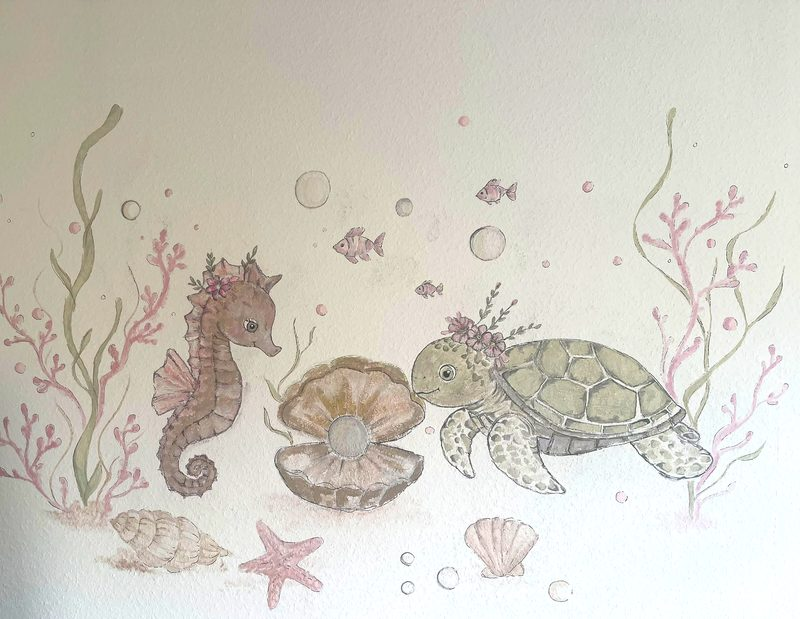
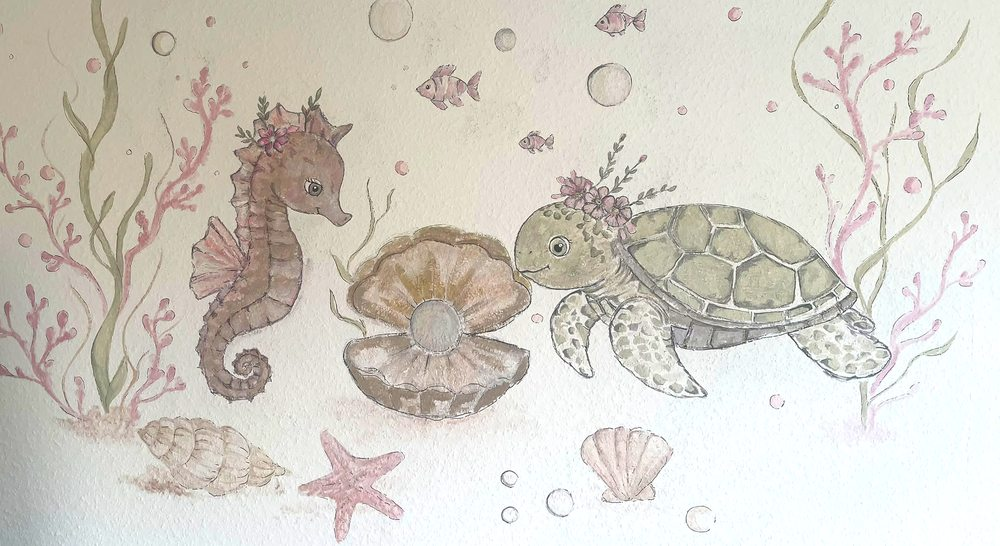
Wandbild wird nicht mehr beschnitten

diff --git a/css/style.css b/css/style.css
@@ -57,60 +57,27 @@ main, footer { max-width: 760px; margin-inline: auto; padding-inline: 20px; }
 ::selection { background: var(--rose-soft); color: var(--ink); }
 
 /* ==========================================================================
-   Hero – das Wandbild als Bühne
+   Hero – Titel auf ruhigem Grund, darunter das Wandbild in voller Breite.
+   Das Bild wird NICHT auf eine feste Höhe beschnitten: Seepferdchen und
+   Schildkröte bleiben in jeder Fensterbreite vollständig sichtbar.
    ========================================================================== */
 
 .hero {
   position: relative;
   isolation: isolate;
-  min-height: clamp(470px, 74vh, 700px);
-  display: flex;
-  flex-direction: column;
-  justify-content: flex-start;
-  align-items: center;
-  padding: clamp(44px, 9vw, 84px) 20px clamp(90px, 16vw, 150px);
+  padding-top: clamp(48px, 8vw, 88px);
   text-align: center;
   overflow: hidden;
 }
 
-.hero-media {
-  position: absolute;
-  inset: -8% 0 0;
-  z-index: -2;
-}
-
-.hero-media img {
-  width: 100%;
-  height: 100%;
-  object-fit: cover;
-  object-position: 50% 96%;
+.hero-text {
+  position: relative;
+  z-index: 1;
+  max-width: 40ch;
+  margin: 0 auto;
+  padding: 0 20px clamp(14px, 3vw, 26px);
   will-change: transform;
 }
-
-/* Weicher Verlauf: oben aufhellen für die Schrift, unten in die Seite überblenden */
-.hero::before {
-  content: "";
-  position: absolute;
-  inset: 0;
-  z-index: -1;
-  background:
-    linear-gradient(to right,
-      var(--bg) 0%,
-      rgba(250,245,239,.45) 5%,
-      rgba(250,245,239,0) 13%,
-      rgba(250,245,239,0) 87%,
-      rgba(250,245,239,.45) 95%,
-      var(--bg) 100%),
-    linear-gradient(to bottom,
-      rgba(250,245,239,.97) 0%,
-      rgba(250,245,239,.94) 34%,
-      rgba(250,245,239,.62) 50%,
-      rgba(250,245,239,.10) 64%,
-      rgba(250,245,239,.55) 88%,
-      var(--bg) 100%);
-}
-
-.hero-content { position: relative; max-width: 40ch; }
 
 .eyebrow {
   margin: 0;
@@ -125,7 +92,7 @@ main, footer { max-width: 760px; margin-inline: auto; padding-inline: 20px; }
   margin: .12em 0 .2em;
   font-family: "Cormorant Garamond", Iowan Old Style, Palatino, Georgia, serif;
   font-weight: 600;
-  font-size: clamp(3.2rem, 13vw, 5.4rem);
+  font-size: clamp(3.2rem, 12vw, 5.4rem);
   line-height: .95;
   letter-spacing: -.015em;
   color: var(--ink);
@@ -138,8 +105,53 @@ main, footer { max-width: 760px; margin-inline: auto; padding-inline: 20px; }
   font-size: clamp(.94rem, 2.4vw, 1.02rem);
 }
 
+/* --- Das Bild ------------------------------------------------------------
+   Grundfall: volle Breite, Höhe ergibt sich aus dem Bild -> kein Beschnitt.
+   Erst bei sehr breiten Fenstern greift die Höhenbremse; dann wird um die
+   Bildmitte herum beschnitten, also genau um die Tiere.                    */
+
+.hero-media {
+  position: relative;
+  width: 100%;
+  max-width: 1180px;      /* begrenzt die Breite statt das Bild zu beschneiden */
+  margin-inline: auto;
+  line-height: 0;
+}
+
+.hero-media img {
+  display: block;
+  width: 100%;
+  height: auto;
+  max-height: min(78vh, 680px);   /* Notbremse für sehr flache Fenster */
+  object-fit: cover;
+  object-position: 50% 50%;
+}
+
+/* Weiche Kanten, damit das Foto in den Seitenhintergrund übergeht */
+.hero-media::after {
+  content: "";
+  position: absolute;
+  inset: 0;
+  pointer-events: none;
+  background:
+    linear-gradient(to bottom,
+      var(--bg) 0%,
+      rgba(250,245,239,.55) 7%,
+      rgba(250,245,239,0) 16%,
+      rgba(250,245,239,0) 72%,
+      rgba(250,245,239,.80) 93%,
+      var(--bg) 100%),
+    linear-gradient(to right,
+      var(--bg) 0%,
+      rgba(250,245,239,.45) 4%,
+      rgba(250,245,239,0) 11%,
+      rgba(250,245,239,0) 89%,
+      rgba(250,245,239,.45) 96%,
+      var(--bg) 100%);
+}
+
 /* Perlen, die langsam aufsteigen */
-.bubbles { position: absolute; inset: 0; z-index: -1; pointer-events: none; }
+.bubbles { position: absolute; inset: 0; z-index: 2; pointer-events: none; }
 
 .bubbles span {
   position: absolute;
@@ -159,7 +171,7 @@ main, footer { max-width: 760px; margin-inline: auto; padding-inline: 20px; }
   0%   { transform: translateY(0) scale(.85);      opacity: 0; }
   12%  {                                            opacity: .75; }
   85%  {                                            opacity: .35; }
-  100% { transform: translateY(-78vh) scale(1.12); opacity: 0; }
+  100% { transform: translateY(-70vh) scale(1.12); opacity: 0; }
 }
 
 /* ==========================================================================
@@ -170,7 +182,7 @@ main, footer { max-width: 760px; margin-inline: auto; padding-inline: 20px; }
   display: grid;
   grid-template-columns: repeat(3, 1fr);
   gap: 12px;
-  margin: -46px 0 22px;   /* schiebt sich sanft über den Hero-Verlauf */
+  margin: clamp(-30px, -2.4vw, -12px) 0 22px;
   position: relative;
 }
 
@@ -661,10 +673,9 @@ html.js .reveal.in {
    ========================================================================== */
 
 @media (max-width: 560px) {
-  .hero { min-height: clamp(420px, 66vh, 540px); padding-bottom: 80px; }
-  .hero-media img { object-position: 50% 94%; }
+  .hero-media img { max-height: min(52vh, 420px); }
 
-  .stats { gap: 8px; margin-top: -38px; }
+  .stats { gap: 8px; margin-top: -14px; }
   .stat { padding: 14px 6px 12px; }
   .stat-num { font-size: 1.75rem; }
   .stat-label { font-size: .71rem; }
@@ -694,6 +705,6 @@ html.js .reveal.in {
 
   .bubbles { display: none; }
   html.js .reveal { opacity: 1; transform: none; }
-  .hero-media img { transform: none !important; }
+  .hero-text { transform: none !important; opacity: 1 !important; }
   .wish:hover, .stat:hover { transform: none; }
 }

diff --git a/index.html b/index.html
@@ -10,19 +10,30 @@
 <link rel="preconnect" href="https://fonts.googleapis.com">
 <link rel="preconnect" href="https://fonts.gstatic.com" crossorigin>
 <link rel="stylesheet" href="https://fonts.googleapis.com/css2?family=Cormorant+Garamond:ital,wght@0,400;0,600;1,400&display=swap">
-<link rel="stylesheet" href="css/style.css?v=7">
+<link rel="stylesheet" href="css/style.css?v=9">
 </head>
 <body>
 
 <header class="hero">
-  <div class="hero-media" aria-hidden="true">
+  <div class="hero-text">
+    <p class="eyebrow">Wunschliste</p>
+    <h1>Mariella</h1>
+    <p class="lede">Wer etwas schenkt, hakt es hier ab – so kauft niemand doppelt.
+      Mariella selbst sieht nicht, wer was reserviert hat.</p>
+  </div>
+
+  <div class="hero-media">
     <picture>
+      <!-- Handy: enger Ausschnitt, damit die Tiere groß genug bleiben -->
+      <source media="(max-width: 640px)" type="image/webp" srcset="assets/wandbild-hoch.webp">
+      <source media="(max-width: 640px)" srcset="assets/wandbild-hoch.jpg">
       <source type="image/webp"
-              srcset="assets/wandbild-small.webp 800w, assets/wandbild.webp 1600w"
-              sizes="100vw">
+              srcset="assets/wandbild-small.webp 1000w, assets/wandbild.webp 1400w"
+              sizes="(min-width: 1220px) 1180px, 100vw">
       <img id="hero-img" src="assets/wandbild.jpg"
-           srcset="assets/wandbild-small.jpg 800w, assets/wandbild.jpg 1600w"
-           sizes="100vw" alt="" fetchpriority="high" decoding="async">
+           srcset="assets/wandbild-small.jpg 1000w, assets/wandbild.jpg 1400w"
+           sizes="(min-width: 1220px) 1180px, 100vw" fetchpriority="high" decoding="async"
+           alt="Aquarell-Wandbild aus Mariellas Zimmer: ein Seepferdchen, eine geöffnete Muschel mit Perle und eine Schildkröte zwischen Korallen und Seegras">
     </picture>
   </div>
 
@@ -34,12 +45,6 @@
     <span style="--x:88%; --s:13px; --d:-9s"></span>
   </div>
 
-  <div class="hero-content">
-    <p class="eyebrow">Wunschliste</p>
-    <h1>Mariella</h1>
-    <p class="lede">Wer etwas schenkt, hakt es hier ab – so kauft niemand doppelt.
-      Mariella selbst sieht nicht, wer was reserviert hat.</p>
-  </div>
 </header>
 
 <main>
@@ -126,7 +131,7 @@
   </div>
 </footer>
 
-<script src="js/config.js?v=7"></script>
-<script src="js/app.js?v=7"></script>
+<script src="js/config.js?v=9"></script>
+<script src="js/app.js?v=9"></script>
 </body>
 </html>

diff --git a/js/app.js b/js/app.js
@@ -35,15 +35,20 @@
     for (var i = 0; i < nodes.length; i++) nodes[i].classList.add("in");
   }, 2000);
 
-  var heroImg = document.getElementById("hero-img");
-  if (heroImg && !reduceMotion) {
+  /* Parallaxe auf dem Titelblock, nicht auf dem Bild: das Wandbild soll in
+     jeder Fensterbreite unbeschnitten und unverschoben stehen bleiben.     */
+  var heroText = document.querySelector(".hero-text");
+  if (heroText && !reduceMotion) {
     var ticking = false;
     window.addEventListener("scroll", function () {
       if (ticking) return;
       ticking = true;
       window.requestAnimationFrame(function () {
         var y = window.scrollY || window.pageYOffset || 0;
-        if (y < 1000) heroImg.style.transform = "translate3d(0," + (y * 0.15).toFixed(1) + "px,0)";
+        if (y < 620) {
+          heroText.style.transform = "translate3d(0," + (y * 0.22).toFixed(1) + "px,0)";
+          heroText.style.opacity = Math.max(0, 1 - y / 460).toFixed(3);
+        }
         ticking = false;
       });
     }, { passive: true });
